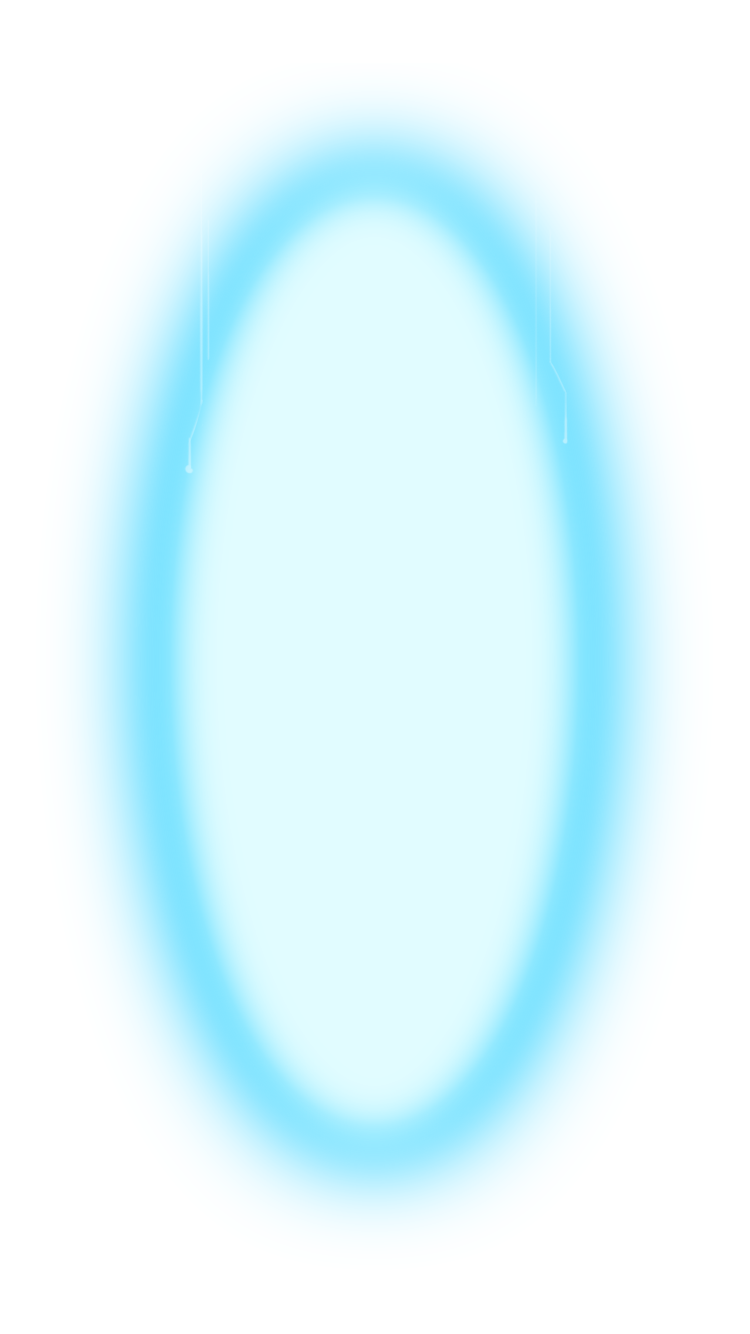
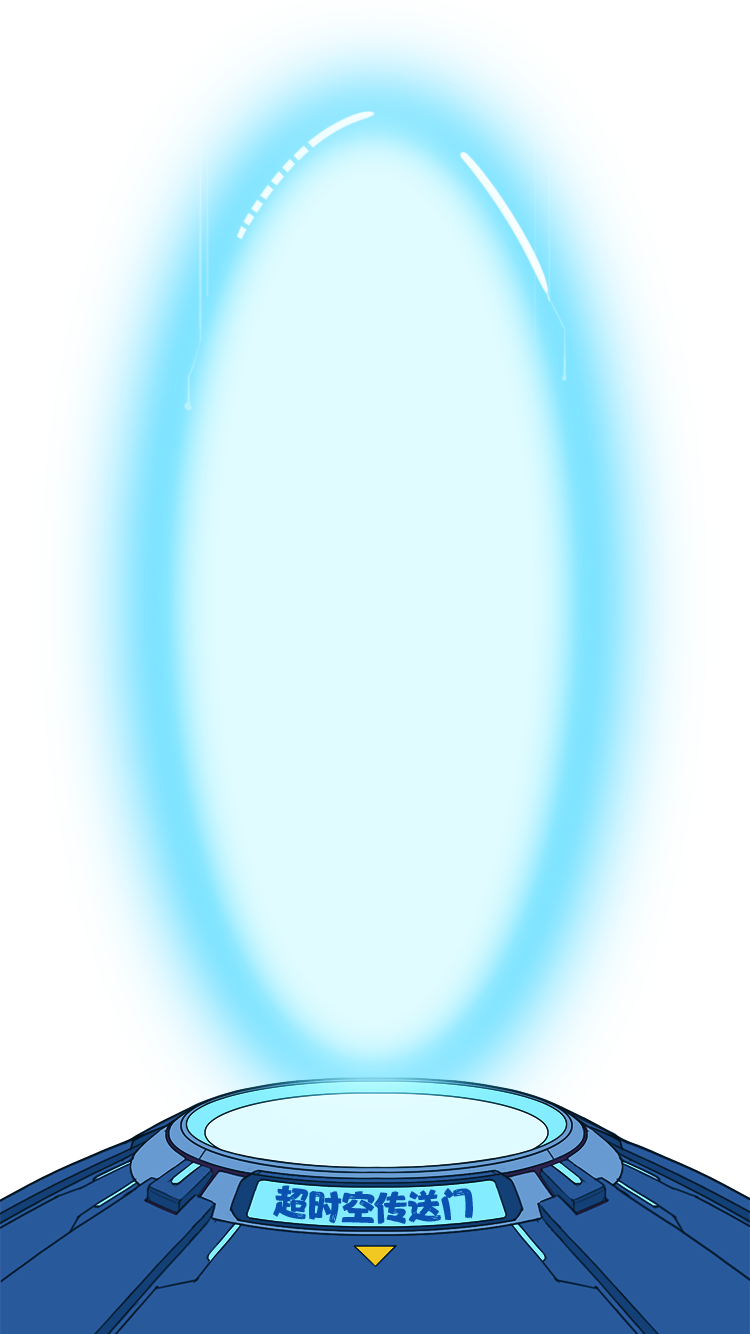
放大效果添加

Changed region(s): [[0.0, 0.5532, 1.0, 1.0], [0.1533, 0.0307, 0.828, 0.3688]]

diff --git a/src/index.html b/src/index.html
@@ -62,6 +62,10 @@
                 } else {
                     $('.arrow').show()
                 }
+
+                if(activeSlide.classList.contains('slider11')){
+                    $('.slider10').removeClass('zoom');
+                }
             },
             slideChangeTransitionStart: function () {
                 $('.arrow').hide()
@@ -84,26 +88,31 @@
                 }
             },
         }
-    })
+    });
 
     $('.arrow').on('click', function () {
         mySwiper1.slideNext()
-    })
+    });
 
     $('.slider10-btn').on('click', function () {
-        mySwiper1.appendSlide('<div class="swiper-slide slider11" style="height: 100%">\n' +
-            '            <div class="slider11-content">\n' +
-            '                <img src="./images/11-1.png" alt="">\n' +
-            '                <img src="./images/11-2.png" alt="" class="slider11-content2">\n' +
-            '                <div class="slider11-btn"></div>\n' +
-            '            </div>\n' +
-            '        </div>')
-        mySwiper1.slideNext()
-    })
+        if(mySwiper1.slides.length == 10){
+            mySwiper1.appendSlide('<div class="swiper-slide slider11" style="height: 100%">\n' +
+                '            <div class="slider11-content">\n' +
+                '                <img src="./images/11-1.png" alt="">\n' +
+                '                <img src="./images/11-2.png" alt="" class="slider11-content2">\n' +
+                '                <div class="slider11-btn"></div>\n' +
+                '            </div>\n' +
+                '        </div>')
+        }
+        $(this).parent().addClass('zoom');
+        setTimeout(function () {
+            mySwiper1.slideNext()
+        },500)
+    });
 
     $('.swiper-container1').on('click', '.slider11-btn', function () {
         $('.slider11-content2').addClass('show');
-    })
+    });
 
     //--创建页面监听，等待微信端页面加载完毕 触发音频播放
     var audio = document.getElementById('musicAudio');

diff --git a/dist/index.html b/dist/index.html
@@ -63,6 +63,9 @@
 					} else {
 						$('.arrow').show()
 					}
+					if (activeSlide.classList.contains('slider11')) {
+						$('.slider10').removeClass('zoom');
+					}
 				},
 				slideChangeTransitionStart: function() {
 					$('.arrow').hide()
@@ -85,23 +88,28 @@
 					}
 				},
 			}
-		})
+		});
 		$('.arrow').on('click', function() {
 			mySwiper1.slideNext()
-		})
+		});
 		$('.slider10-btn').on('click', function() {
-			mySwiper1.appendSlide('<div class="swiper-slide slider11" style="height: 100%">\n' +
-				'            <div class="slider11-content">\n' +
-				'                <img src="./images/11-1.png" alt="">\n' +
-				'                <img src="./images/11-2.png" alt="" class="slider11-content2">\n' +
-				'                <div class="slider11-btn"></div>\n' +
-				'            </div>\n' +
-				'        </div>')
-			mySwiper1.slideNext()
-		})
+			if (mySwiper1.slides.length == 10) {
+				mySwiper1.appendSlide('<div class="swiper-slide slider11" style="height: 100%">\n' +
+					'            <div class="slider11-content">\n' +
+					'                <img src="./images/11-1.png" alt="">\n' +
+					'                <img src="./images/11-2.png" alt="" class="slider11-content2">\n' +
+					'                <div class="slider11-btn"></div>\n' +
+					'            </div>\n' +
+					'        </div>')
+			}
+			$(this).parent().addClass('zoom');
+			setTimeout(function() {
+				mySwiper1.slideNext()
+			}, 500)
+		});
 		$('.swiper-container1').on('click', '.slider11-btn', function() {
 			$('.slider11-content2').addClass('show');
-		})
+		});
 		//--创建页面监听，等待微信端页面加载完毕 触发音频播放
 		var audio = document.getElementById('musicAudio');
 		document.addEventListener('DOMContentLoaded', function() {

diff --git a/dist/css/style.css b/dist/css/style.css
@@ -229,10 +229,16 @@ body {
 }
 
 .slider10 {
-  background: url(../images/10-2.png?v=a925aadf) no-repeat center bottom #00758a;
+  background: url(../images/10-2.png?v=ed9ff1d0) no-repeat center bottom #00758a;
   background-size: 100% auto;
   overflow: hidden;
   z-index: 0;
+}
+
+.slider10.zoom:before {
+  -webkit-transform: scale(1.5);
+      -ms-transform: scale(1.5);
+          transform: scale(1.5);
 }
 
 .slider10:before {
@@ -242,9 +248,13 @@ body {
   top: 0;
   width: 100%;
   height: 100%;
-  background: url(../images/10-1.png?v=955cf720) no-repeat center bottom;
+  background: url(../images/10-1.png?v=05fb6159) no-repeat center bottom;
   background-size: 100% auto;
   overflow: hidden;
+  -webkit-transition: -webkit-transform .5s;
+  transition: -webkit-transform .5s;
+  transition: transform .5s;
+  transition: transform .5s, -webkit-transform .5s;
 }
 
 .slider10:after {
@@ -254,7 +264,7 @@ body {
   top: 0;
   width: 100%;
   height: 100%;
-  background: url(../images/10-3.png?v=d8e7f1e2) no-repeat center bottom;
+  background: url(../images/10-3.png?v=a86aa052) no-repeat center bottom;
   background-size: 100% auto;
   overflow: hidden;
 }

diff --git a/src/css/style.scss b/src/css/style.scss
@@ -164,6 +164,11 @@ body {
   background-size: 100% auto;
   overflow: hidden;
   z-index: 0;
+  &.zoom{
+    &:before{
+      transform: scale(1.5);
+    }
+  }
   &:before {
     content: '';
     position: absolute;
@@ -174,6 +179,7 @@ body {
     background: url(../images/10-1.png) no-repeat center bottom;
     background-size: 100% auto;
     overflow: hidden;
+    transition: transform .5s;
   }
   &:after {
     content: '';
